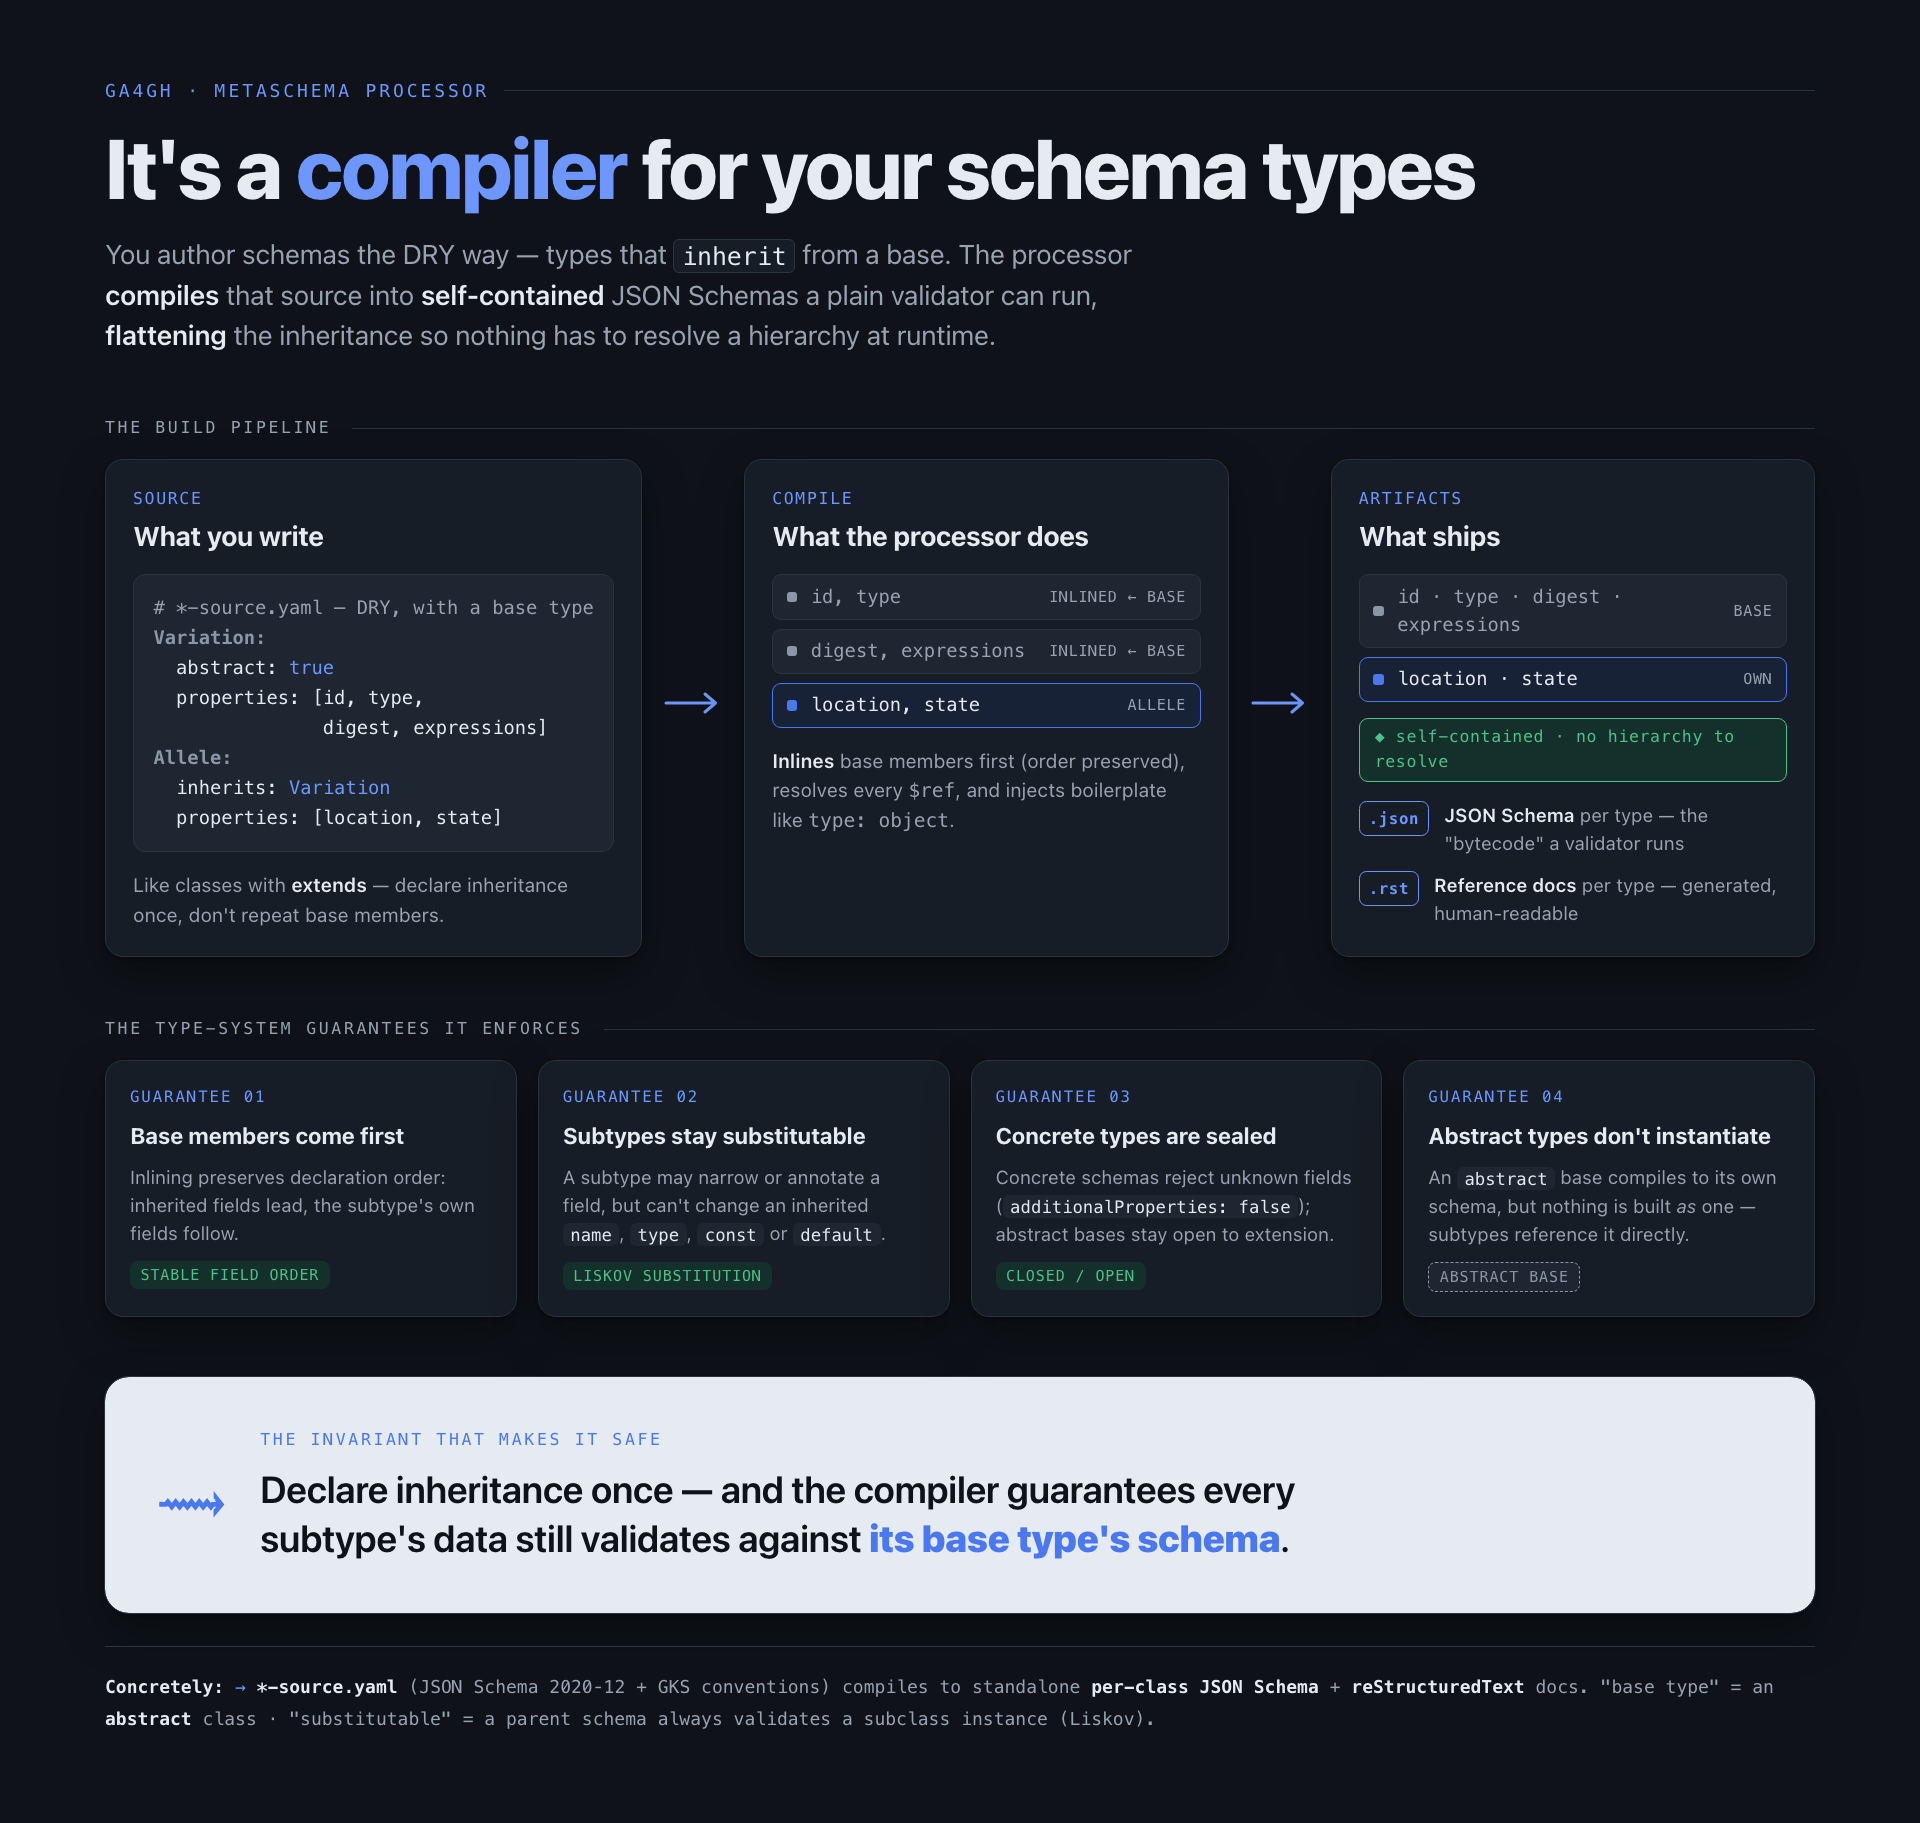
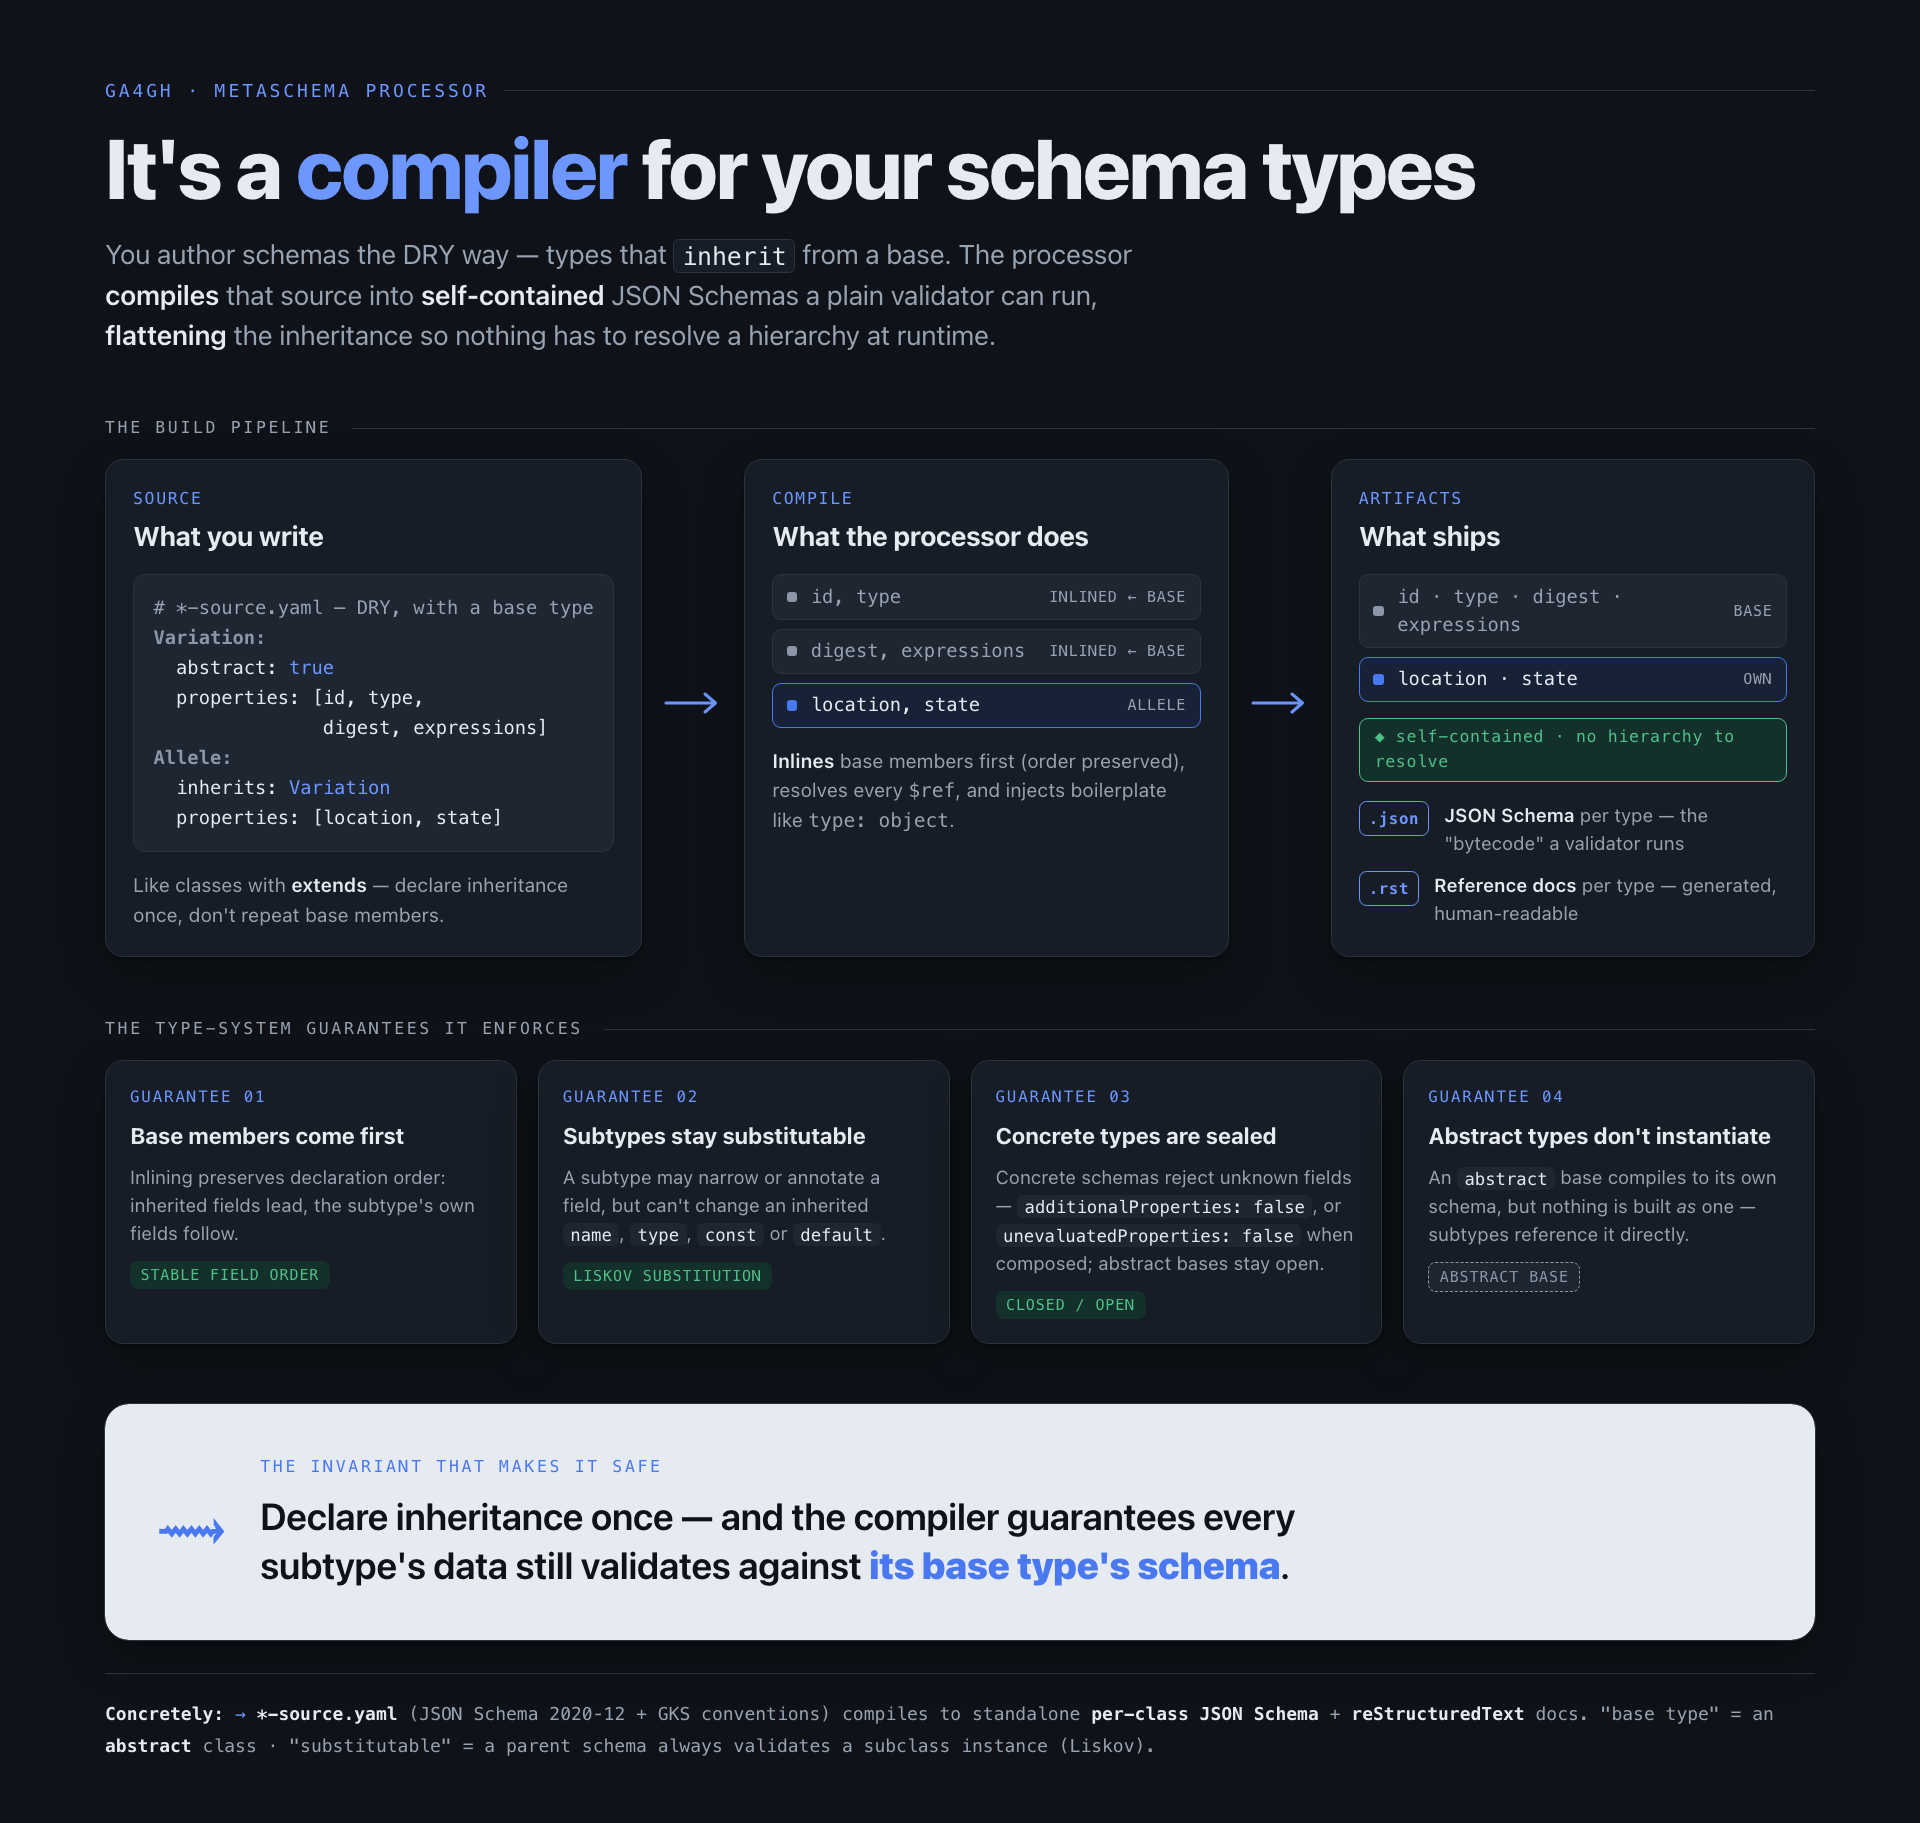
docs: update explainer graphic for composed-class closure
GUARANTEE 03 previously named only additionalProperties: false as the concrete
closure keyword. Composed concrete classes (the recipes/profiles) close with
unevaluatedProperties: false, so the panel now states both. Regenerated the
light/dark PNGs from the updated HTML (1920x1823, matching the originals).

Changed region(s): [[0.0625, 0.6451, 0.9375, 0.983]]

diff --git a/docs/msp-explainer.html b/docs/msp-explainer.html
@@ -251,7 +251,7 @@
     <div class="rule">
       <div class="n">GUARANTEE 03</div>
       <h4>Concrete types are sealed</h4>
-      <p>Concrete schemas reject unknown fields (<code>additionalProperties:&nbsp;false</code>); abstract bases stay open to extension.</p>
+      <p>Concrete schemas reject unknown fields — <code>additionalProperties:&nbsp;false</code>, or <code>unevaluatedProperties:&nbsp;false</code> when composed; abstract bases stay open.</p>
       <span class="term">closed / open</span>
     </div>
     <div class="rule">
